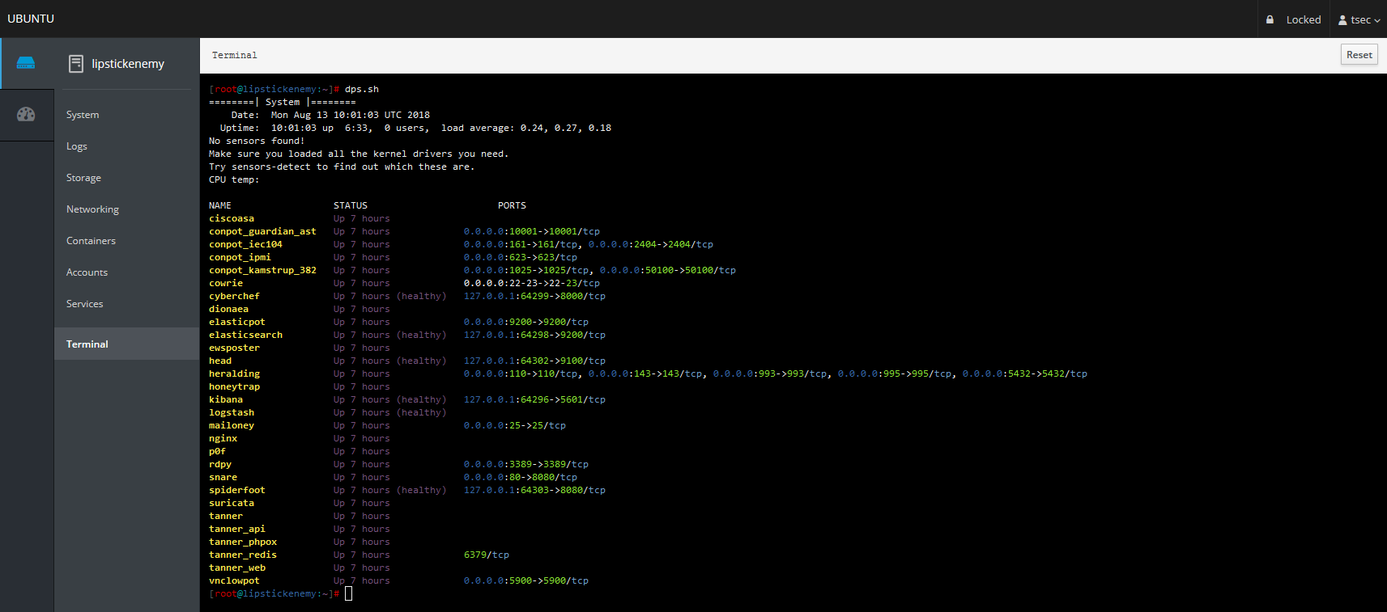
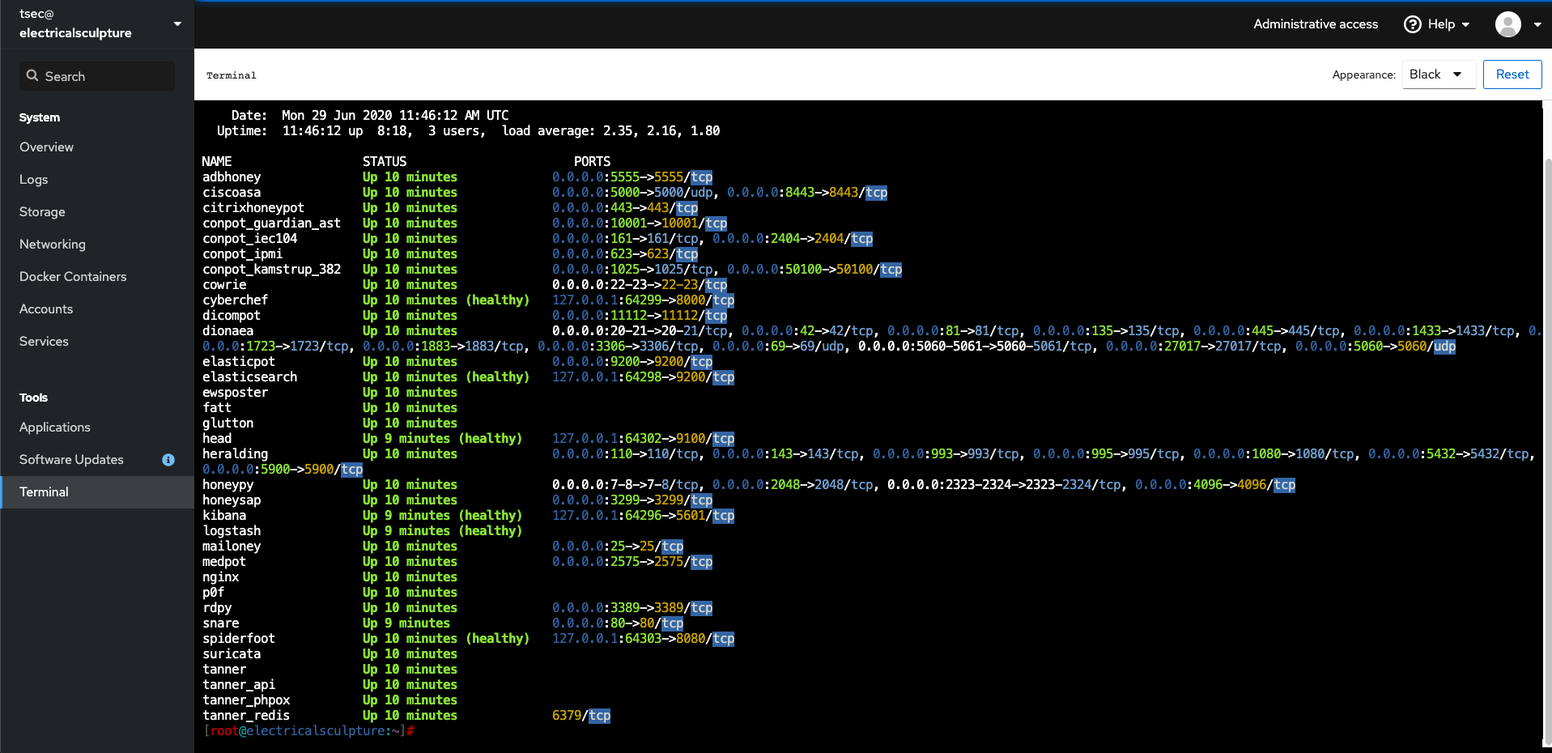
tweaking, update docs
remix sensor installation type
update docs, README and screenshots

Changed region(s): [[0.0, 0.0, 1.0, 1.0], [0.3403, 0.9419, 0.4332, 0.9723], [0.3403, 0.8811, 0.3713, 0.9115]]

diff --git a/README.md b/README.md
@@ -26,7 +26,7 @@ and includes dockerized versions of the following honeypots
 * [tanner](http://mushmush.org/)
 
 
-Furthermore we use the following tools
+Furthermore T-Pot includes the following tools
 
 * [Cockpit](https://cockpit-project.org/running) for a lightweight, webui for docker, os, real-time performance monitoring and web terminal.
 * [Cyberchef](https://gchq.github.io/CyberChef/) a web app for encryption, encoding, compression and data analysis.
@@ -38,7 +38,7 @@ Furthermore we use the following tools
 
 
 # TL;DR
-1. Meet the [system requirements](#requirements). The T-Pot installation needs at least 6-8 GB RAM and 128 GB free disk space as well as a working internet connection.
+1. Meet the [system requirements](#requirements). The T-Pot installation needs at least 8 GB RAM and 128 GB free disk space as well as a working (outgoing non-filtered) internet connection.
 2. Download the T-Pot ISO from [GitHub](https://github.com/dtag-dev-sec/tpotce/releases) or [create it yourself](#createiso).
 3. Install the system in a [VM](#vm) or on [physical hardware](#hw) with [internet access](#placement).
 4. Enjoy your favorite beverage - [watch](https://sicherheitstacho.eu) and [analyze](#kibana).
@@ -62,6 +62,7 @@ Furthermore we use the following tools
 - [Updates](#updates)
 - [Options](#options)
   - [SSH and web access](#ssh)
+  - [T-Pot Landing Page](#heimdall)
   - [Kibana Dashboard](#kibana)
   - [Tools](#tools)
   - [Maintenance](#maintenance)
@@ -79,9 +80,9 @@ Furthermore we use the following tools
 <a name="concept"></a>
 # Technical Concept
 
-T-Pot is based on the network installer Debian (Stable).
-The honeypot daemons as well as other support components being used have been containerized using [docker](http://docker.io).
-This allows us to run multiple honeypot daemons on the same network interface while maintaining a small footprint and constrain each honeypot within its own environment.
+T-Pot is based on the Debian (Stable) network installer.
+The honeypot daemons as well as other support components are [dockered](http://docker.io).
+This allows T-Pot to run multiple honeypot daemons and tools on the same network interface while maintaining a small footprint and constrain each honeypot within its own environment.
 
 In T-Pot we combine the dockerized honeypots ...
 * [adbhoney](https://github.com/huuck/ADBHoney),
@@ -116,7 +117,7 @@ In T-Pot we combine the dockerized honeypots ...
 
 ![Architecture](doc/architecture.png)
 
-While data within docker containers is volatile we do ensure a default 30 day persistence of all relevant honeypot and tool data in the well known `/data` folder and sub-folders. The persistence configuration may be adjusted in `/opt/tpot/etc/logrotate/logrotate.conf`. Once a docker container crashes, all other data produced within its environment is erased and a fresh instance is started from the corresponding docker image.<br>
+While data within docker containers is volatile T-Pot ensures a default 30 day persistence of all relevant honeypot and tool data in the well known `/data` folder and sub-folders. The persistence configuration may be adjusted in `/opt/tpot/etc/logrotate/logrotate.conf`. Once a docker container crashes, all other data produced within its environment is erased and a fresh instance is started from the corresponding docker image.<br>
 
 Basically, what happens when the system is booted up is the following:
 
@@ -124,57 +125,57 @@ Basically, what happens when the system is booted up is the following:
 - start all the necessary services (i.e. cockpit, docker, etc.)
 - start all docker containers via docker-compose (honeypots, nms, elk, etc.)
 
-Within the T-Pot project, we provide all the tools and documentation necessary to build your own honeypot system and contribute to our [Sicherheitstacho](https://sicherheitstacho.eu).
+The T-Pot project provides all the tools and documentation necessary to build your own honeypot system and contribute to our [Sicherheitstacho](https://sicherheitstacho.eu).
 
-The source code and configuration files are fully stored in the T-Pot GitHub repository. The docker images are pre-configured for the T-Pot environment. If you want to run the docker images separately, make sure you study the docker-compose configuration (`/opt/tpot/etc/tpot.yml`) and the T-Pot systemd script (`/etc/systemd/system/tpot.service`), as they provide a good starting point for implementing changes.
+The source code and configuration files are fully stored in the T-Pot GitHub repository. The docker images are preconfigured for the T-Pot environment. If you want to run the docker images separately, make sure you study the docker-compose configuration (`/opt/tpot/etc/tpot.yml`) and the T-Pot systemd script (`/etc/systemd/system/tpot.service`), as they provide a good starting point for implementing changes.
 
 The individual docker configurations are located in the [docker folder](https://github.com/dtag-dev-sec/tpotce/tree/master/docker).
 
 <a name="requirements"></a>
 # System Requirements
-Depending on your installation type, whether you install on [real hardware](#hardware) or in a [virtual machine](#vm), make sure your designated T-Pot system meets the following requirements:
+Depending on the installation type, whether installing on [real hardware](#hardware) or in a [virtual machine](#vm), make sure the designated system meets the following requirements:
 
 ##### Standard Installation
-- Honeypots: adbhoney, ciscoasa, conpot, cowrie, dionaea, elasticpot, heralding, honeytrap, mailoney, medpot, rdpy, snare & tanner
-- Tools: cockpit, cyberchef, ELK, elasticsearch head, ewsposter, NGINX, spiderfoot, p0f and suricata
+- Honeypots: adbhoney, ciscoasa, citrixhoneypot, conpot, cowrie, dicompot, dionaea, elasticpot, heralding, honeysap, honeytrap, mailoney, medpot, rdpy, snare & tanner
+- Tools: cockpit, cyberchef, ELK, fatt, elasticsearch head, ewsposter, nginx / heimdall, spiderfoot, p0f & suricata
 
-- 6-8 GB RAM (less RAM is possible but might introduce swapping)
+- 8 GB RAM (less RAM is possible but might introduce swapping / instabilities)
 - 128 GB SSD (smaller is possible but limits the capacity of storing events)
 - Network via DHCP
 - A working, non-proxied, internet connection
 
 ##### Sensor Installation
-- Honeypots: adbhoney, ciscoasa, conpot, cowrie, dionaea, elasticpot, heralding, honeytrap, mailoney, medpot, rdpy, snare & tanner
-- Tools: cockpit
+- Honeypots: adbhoney, ciscoasa, citrixhoneypot, conpot, cowrie, dicompot, dionaea, elasticpot, heralding, honeypy, honeysap, honeytrap, mailoney, medpot, rdpy, snare & tanner
+- Tools: cockpit, ewsposter, fatt, p0f & suricata
 
-- 6-8 GB RAM (less RAM is possible but might introduce swapping)
+- 8 GB RAM (less RAM is possible but might introduce swapping / instabilities)
 - 128 GB SSD (smaller is possible but limits the capacity of storing events)
 - Network via DHCP
 - A working, non-proxied, internet connection
 
 ##### Industrial Installation
-- Honeypots: conpot, cowrie, heralding, medpot, rdpy
-- Tools: cockpit, cyberchef, ELK, elasticsearch head, ewsposter, NGINX, spiderfoot, p0f and suricata
+- Honeypots: conpot, cowrie, dicompot, heralding, honeysap, honeytrap, medpot & rdpy
+- Tools: cockpit, cyberchef, ELK, fatt, elasticsearch head, ewsposter, nginx / heimdall, spiderfoot, p0f & suricata
 
-- 6-8 GB RAM (less RAM is possible but might introduce swapping)
+- 8 GB RAM (less RAM is possible but might introduce swapping / instabilities)
 - 128 GB SSD (smaller is possible but limits the capacity of storing events)
 - Network via DHCP
 - A working, non-proxied, internet connection
 
 ##### Collector Installation (because sometimes all you want to do is catching credentials)
-- Honeypots: heralding
-- Tools: cockpit, cyberchef, ELK, elasticsearch head, ewsposter, NGINX, spiderfoot, p0f and suricata
+- Honeypots: heralding & honeytrap
+- Tools: cockpit, cyberchef, fatt, ELK, elasticsearch head, ewsposter, nginx / heimdall, spiderfoot, p0f & suricata
 
-- 6-8 GB RAM (less RAM is possible but might introduce swapping)
+- 8 GB RAM (less RAM is possible but might introduce swapping / instabilities)
 - 128 GB SSD (smaller is possible but limits the capacity of storing events)
 - Network via DHCP
 - A working, non-proxied, internet connection
 
-##### NextGen Installation (Glutton replacing Honeytrap, HoneyPy replacing Elasticpot)
-- Honeypots: adbhoney, ciscoasa, citrixhoneypot, conpot, cowrie, dionaea, glutton, heralding, honeypy, mailoney, rdpy, snare & tanner
-- Tools: cockpit, cyberchef, ELK, elasticsearch head, ewsposter, fatt, NGINX, spiderfoot, p0f and suricata
+##### NextGen Installation (Glutton replacing Honeytrap)
+- Honeypots: adbhoney, ciscoasa, citrixhoneypot, conpot, cowrie, dicompot, dionaea, glutton, heralding, honeypy, honeysap, mailoney, medpot, rdpy, snare & tanner
+- Tools: cockpit, cyberchef, ELK, fatt, elasticsearch head, ewsposter, nginx / heimdall, spiderfoot, p0f & suricata
 
-- 6-8 GB RAM (less RAM is possible but might introduce swapping)
+- 8 GB RAM (less RAM is possible but might introduce swapping / instabilities)
 - 128 GB SSD (smaller is possible but limits the capacity of storing events)
 - Network via DHCP
 - A working, non-proxied, internet connection
@@ -183,18 +184,18 @@ Depending on your installation type, whether you install on [real hardware](#har
 # Installation
 The installation of T-Pot is straight forward and heavily depends on a working, transparent and non-proxied up and running internet connection. Otherwise the installation **will fail!**
 
-Firstly, decide if you want to download our prebuilt installation ISO image from [GitHub](https://github.com/dtag-dev-sec/tpotce/releases), [create it yourself](#createiso) ***or*** [post-install on an existing Debian 10 (Buster)](#postinstall).
+Firstly, decide if you want to download the prebuilt installation ISO image from [GitHub](https://github.com/dtag-dev-sec/tpotce/releases), [create it yourself](#createiso) ***or*** [post-install on an existing Debian 10 (Buster)](#postinstall).
 
-Secondly, decide where you want to let the system run: [real hardware](#hardware) or in a [virtual machine](#vm)?
+Secondly, decide where you the system to run: [real hardware](#hardware) or in a [virtual machine](#vm)?
 
 <a name="prebuilt"></a>
 ## Prebuilt ISO Image
-We provide an installation ISO image for download (~50MB), which is created using the same [tool](https://github.com/dtag-dev-sec/tpotce) you can use yourself in order to create your own image. It will basically just save you some time downloading components and creating the ISO image.
-You can download the prebuilt installation image from [GitHub](https://github.com/dtag-dev-sec/tpotce/releases) and jump to the [installation](#vm) section.
+An installation ISO image is available for download (~50MB), which is created by the [ISO Creator](https://github.com/dtag-dev-sec/tpotce) you can use yourself in order to create your own image. It will basically just save you some time downloading components and creating the ISO image.
+You can download the prebuilt installation ISO from [GitHub](https://github.com/dtag-dev-sec/tpotce/releases) and jump to the [installation](#vm) section.
 
 <a name="createiso"></a>
 ## Create your own ISO Image
-For transparency reasons and to give you the ability to customize your install, we provide you the [ISO Creator](https://github.com/dtag-dev-sec/tpotce) that enables you to create your own ISO installation image.
+For transparency reasons and to give you the ability to customize your install you use the [ISO Creator](https://github.com/dtag-dev-sec/tpotce) that enables you to create your own ISO installation image.
 
 **Requirements to create the ISO image:**
 - Debian 10 as host system (others *may* work, but *remain* untested)
@@ -209,24 +210,24 @@ For transparency reasons and to give you the ability to customize your install, 
 git clone https://github.com/dtag-dev-sec/tpotce
 cd tpotce
 ```
-2. Invoke the script that builds the ISO image.
+2. Run the `makeiso.sh` script to build the ISO image.
 The script will download and install dependencies necessary to build the image on the invoking machine. It will further download the ubuntu network installer image (~50MB) which T-Pot is based on.
 ```
 sudo ./makeiso.sh
 ```
-After a successful build, you will find the ISO image `tpot.iso` along with a SHA256 checksum `tpot.sha256` in your directory.
+After a successful build, you will find the ISO image `tpot.iso` along with a SHA256 checksum `tpot.sha256` in your folder.
 
 <a name="vm"></a>
 ## Running in VM
 You may want to run T-Pot in a virtualized environment. The virtual system configuration depends on your virtualization provider.
 
-We successfully tested T-Pot with [VirtualBox](https://www.virtualbox.org) and [VMWare](http://www.vmware.com) with just little modifications to the default machine configurations.
+T-Pot is successfully tested with [VirtualBox](https://www.virtualbox.org) and [VMWare](http://www.vmware.com) with just little modifications to the default machine configurations.
 
-It is important to make sure you meet the [system requirements](#requirements) and assign a virtual harddisk and RAM according to the requirements while making sure networking is bridged.
+It is important to make sure you meet the [system requirements](#requirements) and assign virtual harddisk and RAM according to the requirements while making sure networking is bridged.
 
-You need to enable promiscuous mode for the network interface for suricata and p0f to work properly. Make sure you enable it during configuration.
+You need to enable promiscuous mode for the network interface for fatt, suricata and p0f to work properly. Make sure you enable it during configuration.
 
-If you want to use a wifi card as a primary NIC for T-Pot, please be aware of the fact that not all network interface drivers support all wireless cards. E.g. in VirtualBox, you then have to choose the *"MT SERVER"* model of the NIC.
+If you want to use a wifi card as a primary NIC for T-Pot, please be aware that not all network interface drivers support all wireless cards. In VirtualBox e.g. you have to choose the *"MT SERVER"* model of the NIC.
 
 Lastly, mount the `tpot.iso` ISO to the VM and continue with the installation.<br>
 
@@ -240,7 +241,7 @@ If you decide to run T-Pot on dedicated hardware, just follow these steps:
 Whereas most CD burning tools allow you to burn from ISO images, the procedure to create a bootable USB stick from an ISO image depends on your system. There are various Windows GUI tools available, e.g. [this tip](http://www.ubuntu.com/download/desktop/create-a-usb-stick-on-windows) might help you.<br> On [Linux](http://askubuntu.com/questions/59551/how-to-burn-a-iso-to-a-usb-device) or [MacOS](http://www.ubuntu.com/download/desktop/create-a-usb-stick-on-mac-osx) you can use the tool *dd* or create the USB stick with T-Pot's [ISO Creator](https://github.com/dtag-dev-sec).
 2. Boot from the USB stick and install.
 
-*Please note*: While we are performing limited tests with the Intel NUC platform other hardware platforms **remain untested**. We can not provide hardware support of any kind.
+*Please note*: Limited tests are performed for the Intel NUC platform other hardware platforms **remain untested**. There is no hardware support provided of any kind.
 
 <a name="postinstall"></a>
 ## Post-Install User
@@ -283,6 +284,8 @@ Located in the [`cloud`](cloud) folder.
 Currently there are examples with Ansible & Terraform.  
 If you would like to contribute, you can add other cloud deployments like Chef or Puppet or extend current methods with other cloud providers.
 
+*Please note*: Cloud providers usually offer adjusted Debian OS images, which might not be compatible with T-Pot. There is no cloud provider support provided of any kind.
+
 <a name="ansible"></a>
 ### Ansible Deployment
 You can find an [Ansible](https://www.ansible.com/) based T-Pot deployment in the [`cloud/ansible`](cloud/ansible) folder.  
@@ -291,6 +294,8 @@ The Playbook in the [`cloud/ansible/openstack`](cloud/ansible/openstack) folder 
 It first creates all resources (security group, network, subnet, router), deploys a new server and then installs and configures T-Pot.
 
 You can have a look at the Playbook and easily adapt the deploy role for other [cloud providers](https://docs.ansible.com/ansible/latest/modules/list_of_cloud_modules.html).
+
+*Please note*: Cloud providers usually offer adjusted Debian OS images, which might not be compatible with T-Pot. There is no cloud provider support provided of any kind.
 
 <a name="terraform"></a>
 ### Terraform Configuration
@@ -302,9 +307,11 @@ This can be used to launch a virtual machine, bootstrap any dependencies and ins
 Configuration for **Amazon Web Services** (AWS) and **Open Telekom Cloud** (OTC) is currently included.  
 This can easily be extended to support other [Terraform providers](https://www.terraform.io/docs/providers/index.html).
 
+*Please note*: Cloud providers usually offer adjusted Debian OS images, which might not be compatible with T-Pot. There is no cloud provider support provided of any kind.
+
 <a name="firstrun"></a>
 ## First Run
-The installation requires very little interaction, only a locale and keyboard setting have to be answered for the basic linux installation. The system will reboot and please maintain the active internet connection. The T-Pot installer will start and ask you for an installation type, password for the **tsec** user and credentials for a **web user**. Everything else will be configured automatically. All docker images and other componenents will be downloaded. Depending on your network connection and the chosen installation type, the installation may take some time. During our tests (250Mbit down, 40Mbit up), the installation was usually finished within a 15-30 minute timeframe.
+The installation requires very little interaction, only a locale and keyboard setting have to be answered for the basic linux installation. While the system reboots maintain the active internet connection. The T-Pot installer will start and ask you for an installation type, password for the **tsec** user and credentials for a **web user**. Everything else will be configured automatically. All docker images and other componenents will be downloaded. Depending on your network connection and the chosen installation type, the installation may take some time. With 250Mbit down / 40Mbit up the installation is usually finished within 15-30 minutes.
 
 Once the installation is finished, the system will automatically reboot and you will be presented with the T-Pot login screen. On the console you may login with:
 
@@ -325,18 +332,18 @@ You can also login from your browser and access the Web UI: `https://<your.ip>:6
 
 <a name="placement"></a>
 # System Placement
-Make sure your system is reachable through a network you suspect intruders in / from (i.e. the internet). Otherwise T-Pot will most likely not capture any attacks, other than the ones from your  internal network! We recommend you put it in an unfiltered zone, where all TCP and UDP traffic is forwarded to T-Pot's network interface. However to avoid fingerprinting you can put T-Pot behind a firewall and forward all TCP / UDP traffic in the port range of 1-64000 to T-Pot while allowing access to ports > 64000 only from trusted IPs.
+Make sure your system is reachable through a network you suspect intruders in / from (i.e. the internet). Otherwise T-Pot will most likely not capture any attacks, other than the ones from your internal network! For starters it is recommended to put T-Pot in an unfiltered zone, where all TCP and UDP traffic is forwarded to T-Pot's network interface. However to avoid fingerprinting you can put T-Pot behind a firewall and forward all TCP / UDP traffic in the port range of 1-64000 to T-Pot while allowing access to ports > 64000 only from trusted IPs.
 
 A list of all relevant ports is available as part of the [Technical Concept](#concept)
 <br>
 
-Basically, you can forward as many TCP ports as you want, as honeytrap dynamically binds any TCP port that is not covered by the other honeypot daemons.
+Basically, you can forward as many TCP ports as you want, as glutton & honeytrap dynamically bind any TCP port that is not covered by the other honeypot daemons.
 
 In case you need external Admin UI access, forward TCP port 64294 to T-Pot, see below.
 In case you need external SSH access, forward TCP port 64295 to T-Pot, see below.
 In case you need external Web UI access, forward TCP port 64297 to T-Pot, see below.
 
-T-Pot requires outgoing git, http, https connections for updates (Debian, Docker, GitHub, PyPi) and attack submission (ewsposter, hpfeeds). Ports and availability may vary based on your geographical location. Also during first install outgoing ICMP is required additionally to find the closest and fastest mirror to you.
+T-Pot requires outgoing git, http, https connections for updates (Debian, Docker, GitHub, PyPi), attack submission (ewsposter, hpfeeds) and CVE / IP reputation translation map updates (logstash, listbot). Ports and availability may vary based on your geographical location. Also during first install outgoing ICMP / TRACEROUTE is required additionally to find the closest and fastest mirror to you.
 
 <a name="updates"></a>
 # Updates
@@ -354,15 +361,15 @@ You simply run the update script:
 ```
 sudo su -
 cd /opt/tpot/
-./update.sh -y
+./update.sh
 ```
 
-**Despite all our efforts please be reminded that updates sometimes may have unforeseen consequences. Please create a backup of the machine or the files with the most value to your work.**  
+**Despite all testing efforts please be reminded that updates sometimes may have unforeseen consequences. Please create a backup of the machine or the files with the most value to your work.**  
 
 <a name="options"></a>
 # Options
 The system is designed to run without any interaction or maintenance and automatically contributes to the community.<br>
-We know, for some this may not be enough. So here come some ways to further inspect the system and change configuration parameters.
+For some this may not be enough. So here some examples to further inspect the system and change configuration parameters.
 
 <a name="ssh"></a>
 ## SSH and web access
@@ -377,20 +384,25 @@ You can also add two factor authentication to Cockpit just by running `2fa.sh` o
 
 ![Cockpit Terminal](doc/cockpit3.png)
 
-<a name="kibana"></a>
-## Kibana Dashboard
+<a name="heimdall"></a>
+## T-Pot Landing Page 
 Just open a web browser and connect to `https://<your.ip>:64297`, enter
 
 - user: **[user]** *you chose during the installation*
 - pass: **[password]** *you chose during the installation*
 
-and **Kibana** will automagically load. The Kibana dashboard can be customized to fit your needs. By default, we haven't added any filtering, because the filters depend on your setup. E.g. you might want to filter out your incoming administrative ssh connections and connections to update servers.
+and the **Landing Page** will automagically load. Now just click on the tool / link you want to start.
+
+![Dashbaord](doc/heimdall.png)
+
+<a name="kibana"></a>
+## Kibana Dashboard
 
 ![Dashbaord](doc/kibana.png)
 
 <a name="tools"></a>
 ## Tools
-We included some web based management tools to improve and ease up on your daily tasks.
+The following web based tools are included to improve and ease up daily tasks.
 
 ![Cockpit Overview](doc/cockpit1.png)
 
@@ -405,15 +417,15 @@ We included some web based management tools to improve and ease up on your daily
 
 <a name="maintenance"></a>
 ## Maintenance
-As mentioned before, the system is designed to be low maintenance. Basically, there is nothing you have to do but let it run.
+T-Pot is designed to be low maintenance. Basically, there is nothing you have to do but let it run.
 
 If you run into any problems, a reboot may fix it :bowtie:
 
-If new versions of the components involved appear, we will test them and build new docker images. Those new docker images will be pushed to docker hub and downloaded to T-Pot and activated accordingly.  
+If new versions of the components involved appear new docker images will be created and distributed. New images will be available from docker hub and downloaded automatically to T-Pot and activated accordingly.  
 
 <a name="submission"></a>
 ## Community Data Submission
-We provide T-Pot in order to make it accessible to all parties interested in honeypot deployment. By default, the captured data is submitted to a community backend. This community backend uses the data to feed [Sicherheitstacho](https://sicherheitstacho.eu).
+T-Pot is provided in order to make it accessible to all interested in honeypots. By default, the captured data is submitted to a community backend. This community backend uses the data to feed [Sicherheitstacho](https://sicherheitstacho.eu).
 You may opt out of the submission by removing the `# Ewsposter service` from `/opt/tpot/etc/tpot.yml`:
 1. Stop T-Pot services: `systemctl stop tpot`
 2. Remove Ewsposter service: `vi /opt/tpot/etc/tpot.yml`
@@ -434,7 +446,7 @@ You may opt out of the submission by removing the `# Ewsposter service` from `/o
 
 Data is submitted in a structured ews-format, a XML stucture. Hence, you can parse out the information that is relevant to you.
 
-We encourage you not to disable the data submission as it is the main purpose of the community approach - as you all know **sharing is caring** 😍
+It is encouraged not to disable the data submission as it is the main purpose of the community approach - as you all know **sharing is caring** 😍
 
 <a name="hpfeeds-optin"></a>
 ## Opt-In HPFEEDS Data Submission
@@ -462,8 +474,8 @@ You are always invited to participate in development on our [GitHub](https://git
 - We don't have access to your system. So we cannot remote-assist when you break your configuration. But you can simply reinstall.
 - The software was designed with best effort security, not to be in stealth mode. Because then, we probably would not be able to provide those kind of honeypot services.
 - You install and you run within your responsibility. Choose your deployment wisely as a system compromise can never be ruled out.
-- Honeypots should - by design - may not host any sensitive data. Make sure you don't add any.
-- By default, your data is submitted to the community dashboard. You can disable this in the config. But hey, wouldn't it be better to contribute to the community?
+- Honeypots - by design - should not host any sensitive data. Make sure you don't add any.
+- By default, your data is submitted to [SecurityMeter](https://www.sicherheitstacho.eu/start/main). You can disable this in the config. But hey, wouldn't it be better to contribute to the community?
 
 <a name="faq"></a>
 # FAQ
@@ -471,7 +483,7 @@ Please report any issues or questions on our [GitHub issue list](https://github.
 
 <a name="contact"></a>
 # Contact
-We provide the software **as is** in a Community Edition format. T-Pot is designed to run out of the box and with zero maintenance involved. <br>
+The software is provided **as is** in a Community Edition format. T-Pot is designed to run out of the box and with zero maintenance involved. <br>
 We hope you understand that we cannot provide support on an individual basis. We will try to address questions, bugs and problems on our [GitHub issue list](https://github.com/dtag-dev-sec/tpotce/issues).
 
 <a name="licenses"></a>
@@ -532,7 +544,7 @@ Without open source and the fruitful development community (we are proud to be a
 
 <a name="staytuned"></a>
 # Stay tuned ...
-We will be releasing a new version of T-Pot about every 6-12 months.
+A new version of T-Pot is released about every 6-12 months, development has shifted more and more towards rolling releases and the usage of `/opt/tpot/update.sh`.
 
 <a name="testimonial"></a>
 # Testimonial
